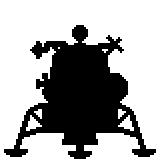
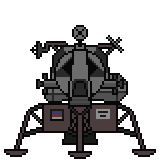
new lunar module
maybe delete the whole thing though

diff --git a/moonrun.py b/moonrun.py
@@ -498,7 +498,6 @@ while run:
         back.show_text()
         pygame.display.flip()
 
-        #isn't working?
         keys=pygame.key.get_pressed()
 
         if keys[pygame.K_2]:
